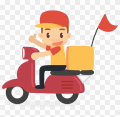
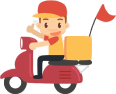
Incluindo transparência no personagem

Changed region(s): [[0.0, 0.0, 1.0, 1.0], [0.5431, 0.4468, 0.569, 0.5319]]

diff --git a/game.py b/game.py
@@ -23,7 +23,9 @@ BLACK_COLOR = (0,0,0)
 # -----------------------------------------------------------------------------
 #  GAME - GLOBAL SCOPE
 # -----------------------------------------------------------------------------
-player = pygame.image.load('assets/player.png')
+player = pygame.image.load('assets/player32.png')
+player.set_colorkey((255,255,255))
+
 # player_pos = [0, GAME_HEIGHT_SCREEN - player.get_height()]
 player_pos = [0, 0]
 momentum_limit = 20.0
@@ -78,6 +80,26 @@ def main():
 
 	# criando uma Surface menor para aumentar o desempenho
 	display = pygame.Surface((300,200))
+
+	# 
+	tile_rects = []
+	y = 0
+
+	for layer in game_map:
+		x = 0
+		for tile in layer:
+
+			# if tile == '1':
+				# display.blit(dirt_img, (x * 16, y * 16))
+
+			# if tile == '2':
+				# display.blit(grass_img, (x * 16, y * 16))
+
+			if tile != '0':
+				tile_rects.append(pygame.Rect(x * 16, y * 16, 16, 16))
+
+			x += 1
+		y += 1
 
 	# -------------------------------------------------------------------------
 	#  GAME LOOP
@@ -167,7 +189,6 @@ def main():
 		# ---------------------------------------------------------------------
 		#  DRAW GAME MAP
 		# ---------------------------------------------------------------------
-		tile_rects = []
 		y = 0
 
 		for layer in game_map:
@@ -176,10 +197,9 @@ def main():
 	
 				if tile == '1':
 					display.blit(dirt_img, (x * 16, y * 16))
+
 				if tile == '2':
 					display.blit(grass_img, (x * 16, y * 16))
-				if tile != '0':
-					tile_rects.append(pygame.Rect(x * 16, y * 16, 16, 16))
 
 				x += 1
 			y += 1
